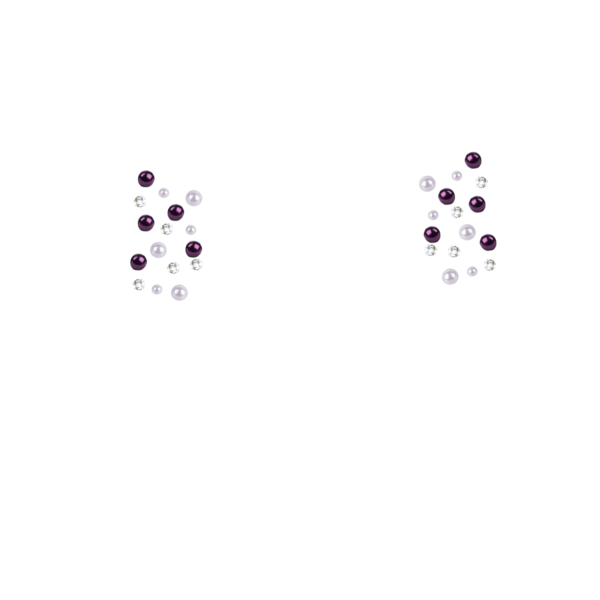
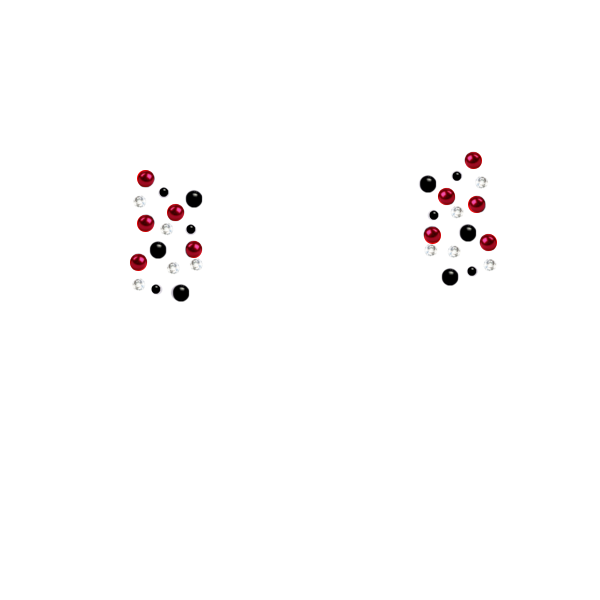
add beads images

diff --git a/src/Constructor/imageSets.jsx b/src/Constructor/imageSets.jsx
@@ -46,6 +46,18 @@ import bead9 from './images/beads/9.png';
 import bead10 from './images/beads/10.png';
 import bead11 from './images/beads/11.png';
 import bead12 from './images/beads/12.png';
+import bead13 from './images/beads/13.png';
+import bead14 from './images/beads/14.png';
+import bead15 from './images/beads/15.png';
+import bead16 from './images/beads/16.png';
+import bead17 from './images/beads/17.png';
+import bead18 from './images/beads/18.png';
+import bead19 from './images/beads/19.png';
+import bead20 from './images/beads/20.png';
+import bead21 from './images/beads/21.png';
+import bead22 from './images/beads/22.png';
+import bead23 from './images/beads/23.png';
+import bead24 from './images/beads/24.png';
 
 import empty from './images/empty.png';
 
@@ -112,18 +124,18 @@ const beads = [
   bead10,
   bead11,
   bead12,
-  bead1,
-  bead2,
-  bead3,
-  bead4,
-  bead5,
-  bead6,
-  bead7,
-  bead8,
-  bead9,
-  bead10,
-  bead11,
-  bead12,
+  bead13,
+  bead14,
+  bead15,
+  bead16,
+  bead17,
+  bead18,
+  bead19,
+  bead20,
+  bead21,
+  bead22,
+  bead23,
+  bead24,
 ];
 
 const rhinestones = [
